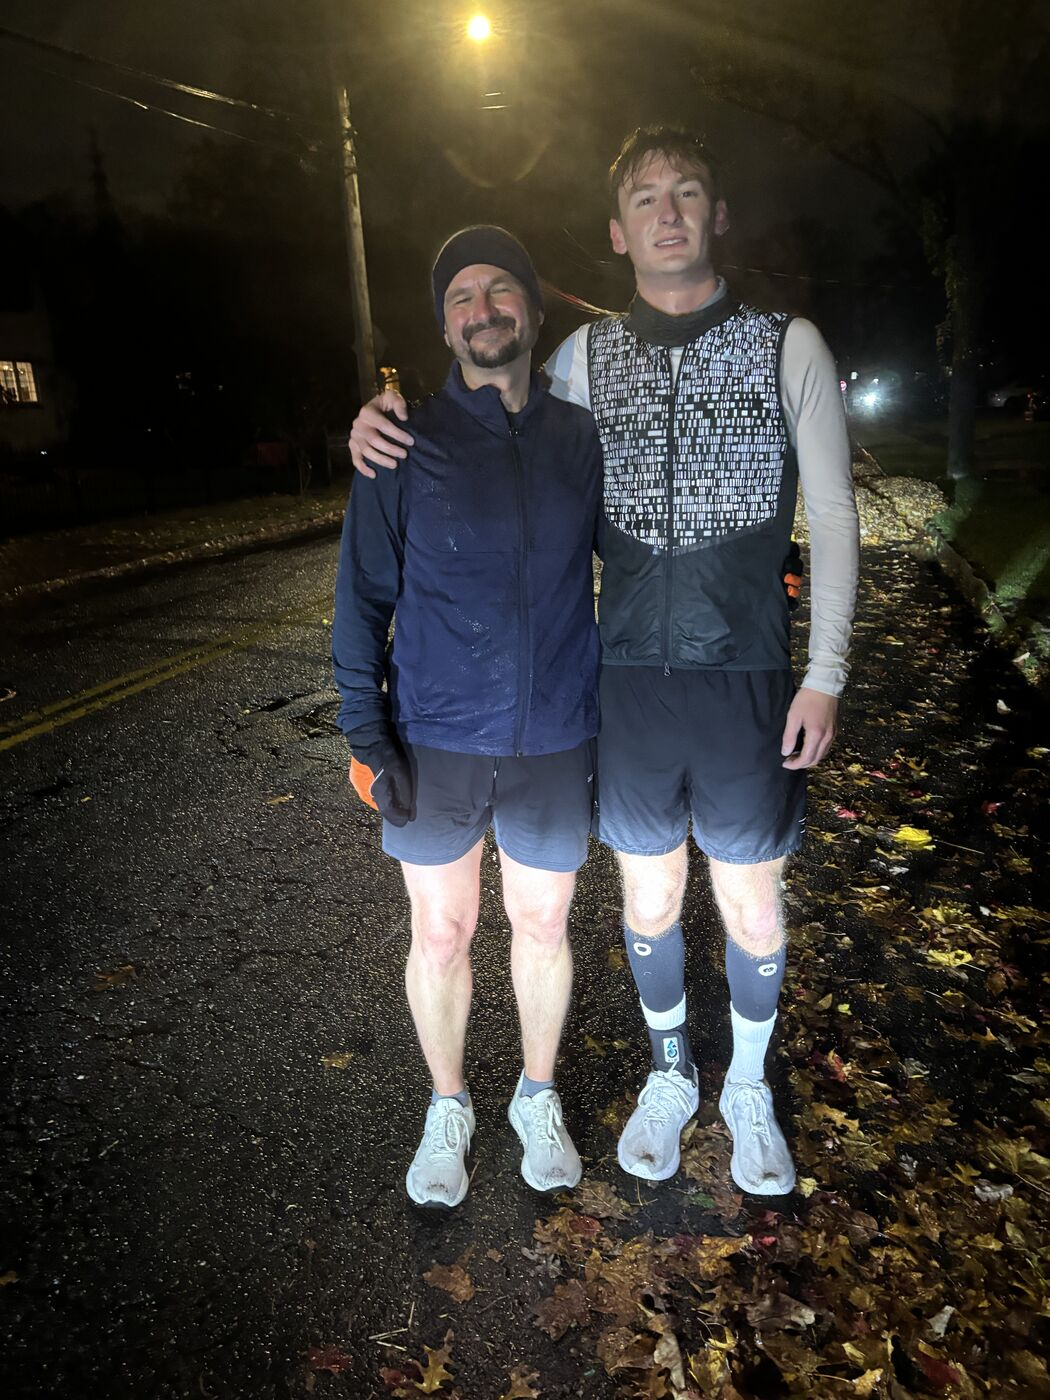
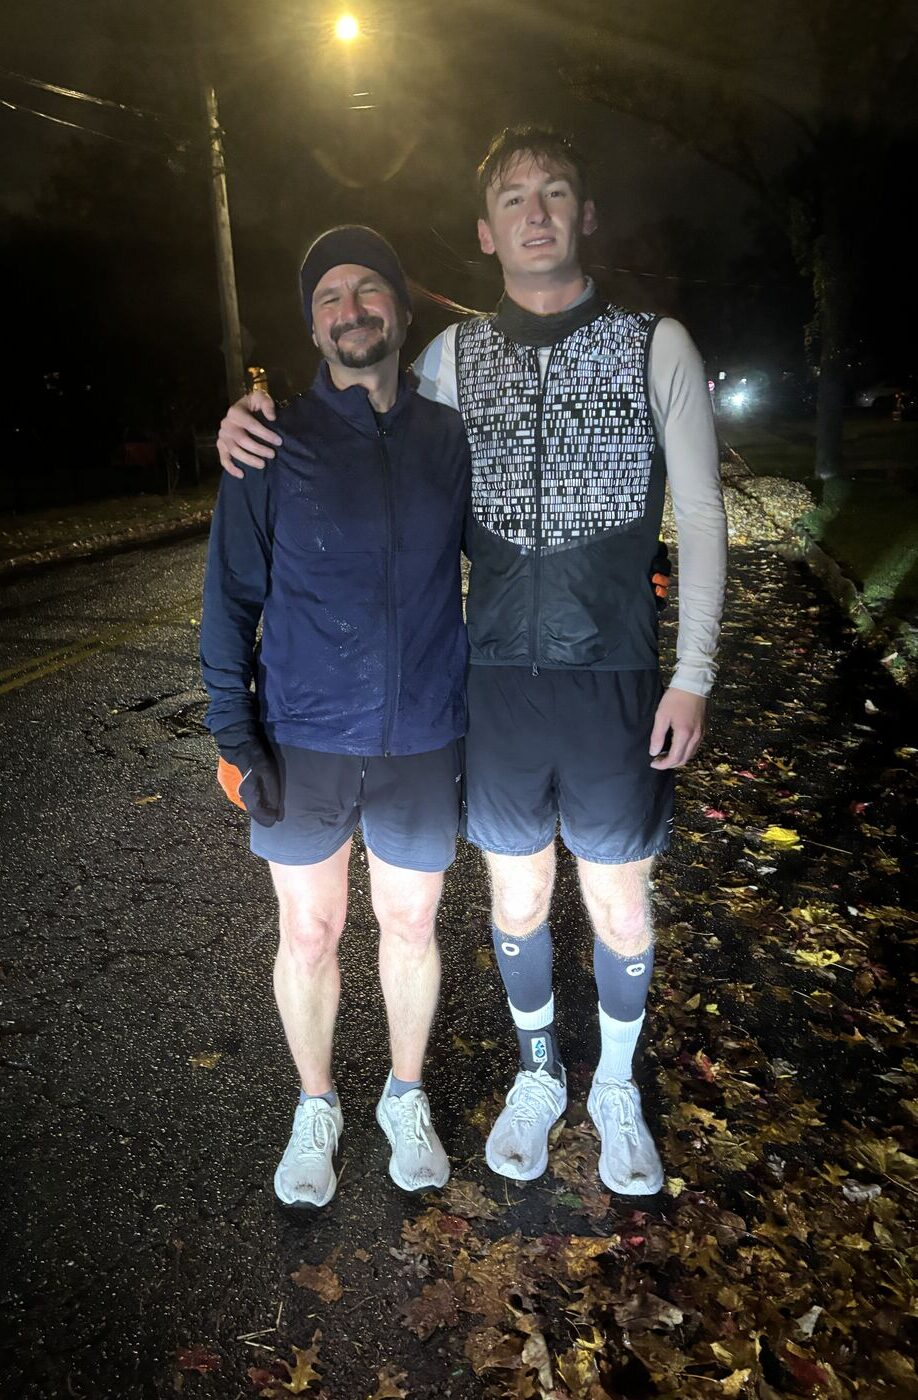
update

diff --git a/index.html b/index.html
@@ -231,9 +231,9 @@
     <!-- Outside the lab photo strip. Swap or add photos in img/ (life-*.jpg). -->
     <div class="life-strip reveal" aria-label="Outside the lab">
       <figure><img src="img/life-backpacking.jpg" alt="Backpacking with a friend in an alpine meadow" loading="lazy"><figcaption>Backpacking</figcaption></figure>
-      <figure><img src="img/life-running.jpg" alt="Max after a night run with a friend" loading="lazy" style="object-position:center 35%"><figcaption>Long runs</figcaption></figure>
-      <figure><img src="img/life-skiing.jpg" alt="Skier carving down a steep snowy slope" loading="lazy"><figcaption>Skiing</figcaption></figure>
-      <figure><img src="img/life-skiing-friends.jpg" alt="Max and a friend on skis at the top of a run" loading="lazy" style="object-position:center 40%"><figcaption>On the mountain</figcaption></figure>
+      <figure><img src="img/life-running.jpg" alt="Max with a fellow runner after a day ultramarathon" loading="lazy" style="object-position:center 35%"><figcaption>Day ultramarathons</figcaption></figure>
+      <figure><img src="img/life-skiing-2.jpg" alt="Max standing on a snowy ridge overlooking a mountain valley" loading="lazy" style="object-position:62% center"><figcaption>Skiing</figcaption></figure>
+      <figure><img src="img/life-scuba.jpg" alt="Max in scuba gear walking toward the water on a beach" loading="lazy" style="object-position:center 70%"><figcaption>Scuba diving</figcaption></figure>
     </div>
   </div>
 </section>
